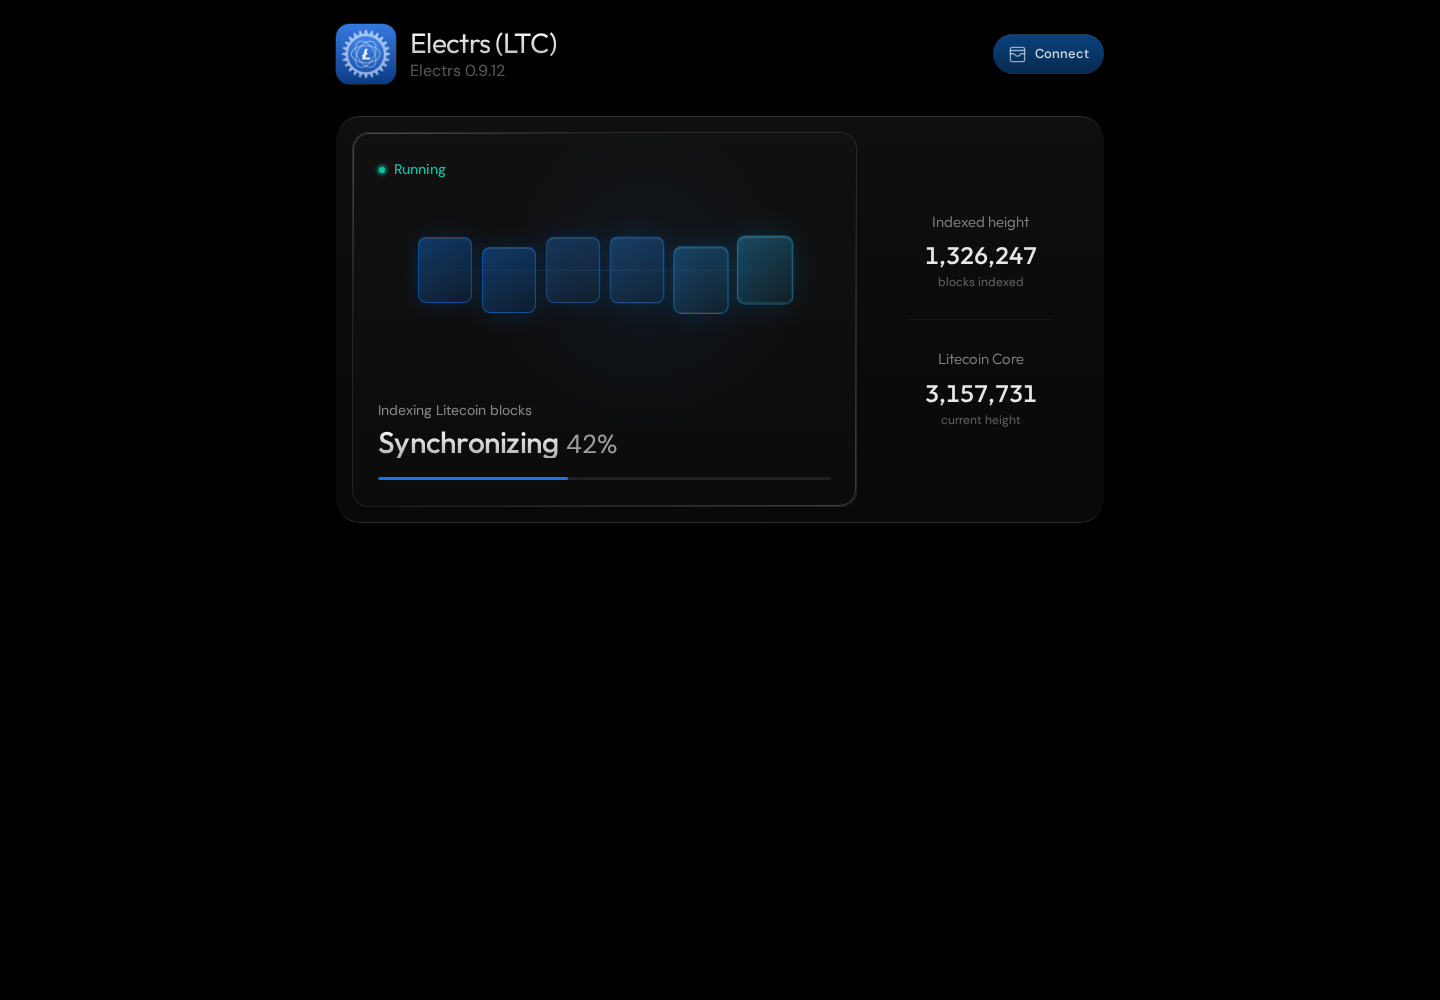
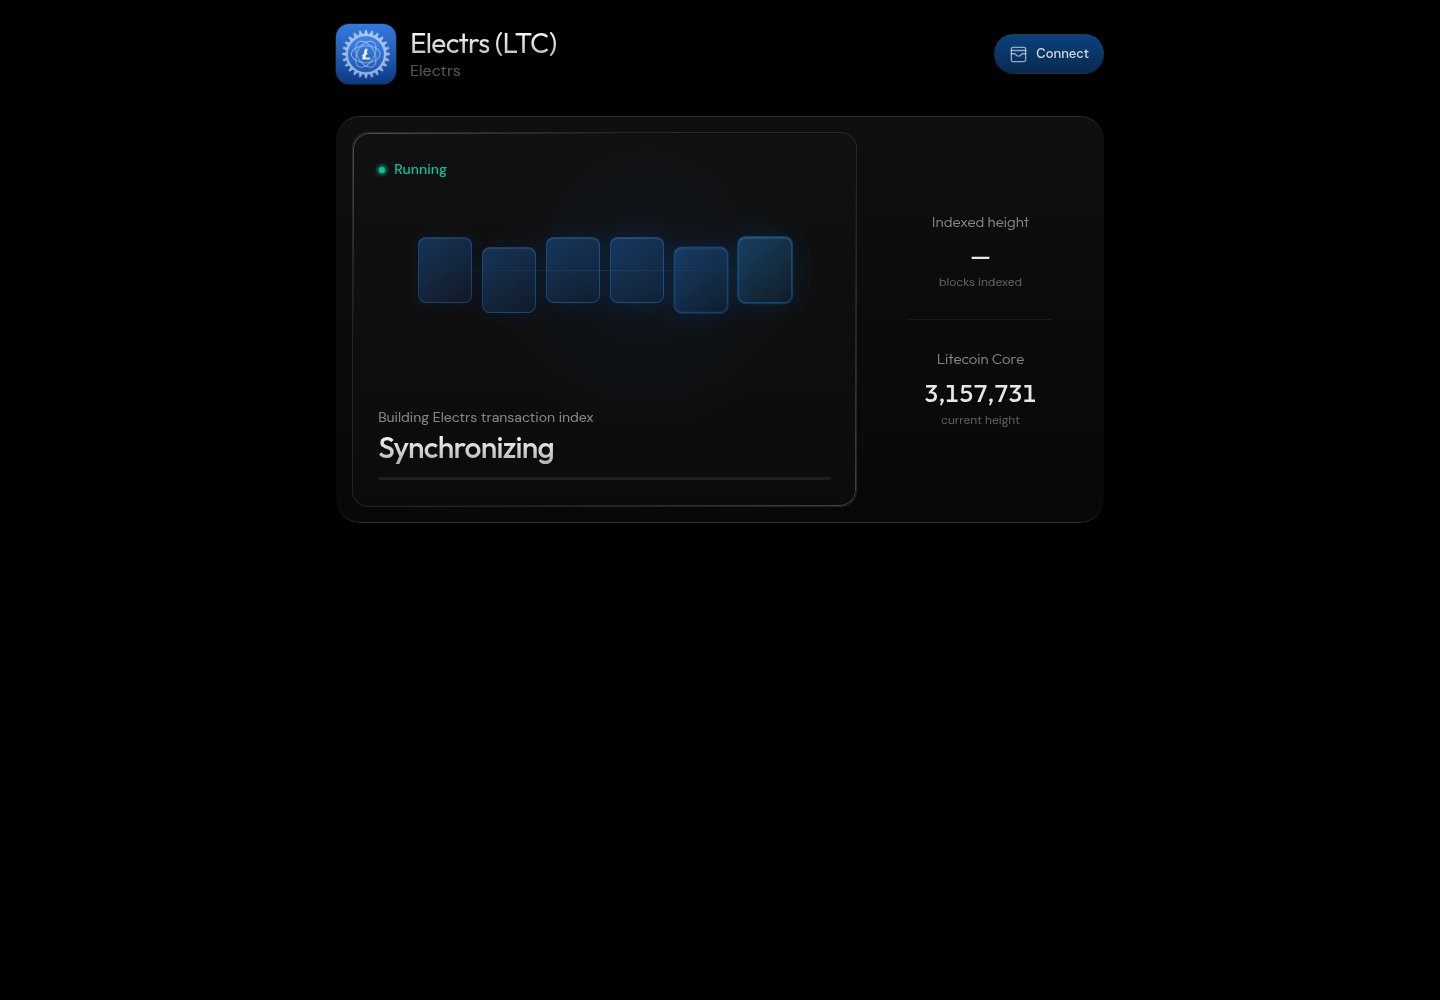
release: publish authoritative Litecoin indexer status

diff --git a/extended-umbrella-litecoin-fulcrum/CHANGELOG.md b/extended-umbrella-litecoin-fulcrum/CHANGELOG.md
@@ -2,6 +2,13 @@
 
 All notable changes to the Extended Umbrella package for Litecoin Fulcrum are documented here.
 
+## 2.1.1-umbrel.15 — 2026-08-10
+
+- Validates Litecoin Core txindex as a separate prerequisite instead of presenting it as Fulcrum indexing progress.
+- Uses Fulcrum-owned stats or fresh complete UTC log records only for incomplete provider progress; logs never establish readiness.
+- Rejects stale, future, malformed, partial, equal-to-Core, and ahead-of-Core fallback markers.
+- Pins Fulcrum log timestamps to UTC and the immutable multi-architecture GUI release `v1.0.10`.
+
 ## 2.1.1-umbrel.14 — 2026-08-10
 
 - Smooth the six-block indexing handoff into the completed state without moving block positions.

diff --git a/extended-umbrella-litecoin-electrumx/CHANGELOG.md b/extended-umbrella-litecoin-electrumx/CHANGELOG.md
@@ -2,6 +2,13 @@
 
 All notable changes to the Extended Umbrella package for Litecoin ElectrumX are documented here.
 
+## 2.0.0-umbrel.11 — 2026-08-10
+
+- Uses private ElectrumX admin database and daemon heights for provider-owned indexing progress.
+- Treats `db height = -1` as valid empty-database preparation and rejects database heights ahead of the daemon.
+- Requires a successful public `server.version` query before reporting synchronized readiness.
+- Preserves Litecoin's exact runtime contract without importing Bitcoin-only Core index prerequisites, and pins GUI release `v1.0.8`.
+
 ## 2.0.0-umbrel.10 — 2026-08-10
 
 - Smooth the six-block indexing handoff into the completed state without moving block positions.

diff --git a/extended-umbrella-litecoin-electrs/CHANGELOG.md b/extended-umbrella-litecoin-electrs/CHANGELOG.md
@@ -2,6 +2,12 @@
 
 All notable changes to the Extended Umbrella package for Litecoin Electrs are documented here.
 
+## 3.4.0-dev.3752866-umbrel.12 — 2026-08-10
+
+- Exposes Electrs' private monitoring listener only on the app network so the GUI can distinguish active transaction-index and history-index phases while the public Electrum listener remains closed.
+- Keeps the public provider listener authoritative for readiness; monitoring telemetry cannot produce a synchronized state or a fabricated percentage.
+- Pins the immutable multi-architecture GUI release `v1.0.12`.
+
 ## 3.4.0-dev.3752866-umbrel.11 — 2026-08-10
 
 - Smooth the six-block indexing handoff into the completed state without moving block positions.
